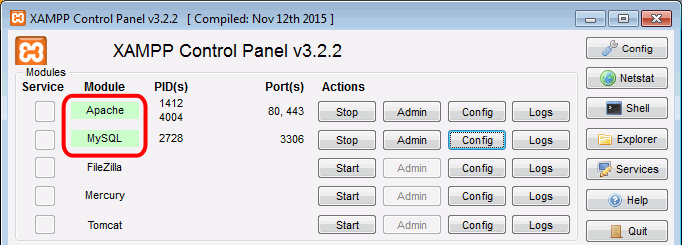
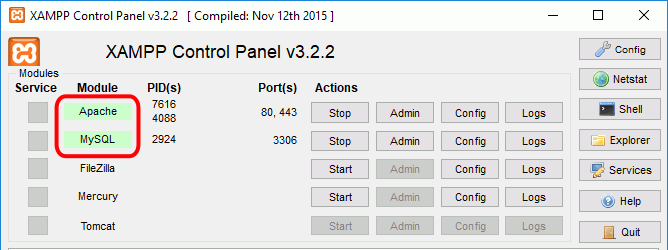
Empiezo a actualizar ejercicios phpMyAdmin

diff --git a/lecciones/phpmyadmin-1.html b/lecciones/phpmyadmin-1.html
@@ -49,6 +49,8 @@
 
   <p>En esta lección se proponen ejercicios para instalar y comprobar el funcionamiento básico de <strong>phpMyAdmin</strong>. Se pueden consultar las <a href="phpmyadmin-1-soluciones.html">soluciones de estos ejercicios de phpMyAdmin</a>, aunque se recomienda intentar realizarlos primero sin recurrir a estas soluciones.</p>
 
+  <p class="incompleto"><img src="../varios/iconos/icono-en-construccion.svg" alt="En construcción" title="En construcción" width="55" height="48" />las capturas de pantalla están pendientes de actualizar a phpMyAdmin 4.7.</p>
+
   <section id="ejercicio-1">
     <h2>phpMyAdmin (1) 1 - phpMyAdmin de XAMPP</h2>
 
@@ -61,7 +63,7 @@
       <li>abrir directamente la dirección <strong>http://localhost/phpmyadmin/</strong>.</li>
     </ul>
 
-    <p>El phpMyAdmin de XAMPP está configurado inicialmente para conectarse directamente a MySQL/MariaDB como usuario <strong>root</strong> sin contraseña. En este ejercicio se supone que no se ha modificado todavía esa configuración inicial.</p>
+    <p>El phpMyAdmin de XAMPP está configurado inicialmente para conectarse directamente a MySQL/MariaDB como usuario <strong>root</strong> sin contraseña, ya que esta es la configuración inicial de MySQL cuando se instala XAMPP. En este ejercicio se supone que no se ha modificado todavía esa configuración inicial.</p>
 
     <ol>
       <li>Abra el phpMyAdmin de XAMPP para comprobar que se conecta a MySQL/MariaDB como usuario <strong>root</strong>.
@@ -81,7 +83,7 @@
         </p>
       </li>
       <li>Para poder conectarse como usuario <strong>root</strong> con contraseña <strong>root</strong>, modifique la variable de configuración correspondiente en el archivo de configuración de phpMyAdmin <strong>config.inc.php</strong> que se encuentra en la carpeta del phpMyAdmin de XAMPP.
-        <p><img src="../varios/iconos/icono-warning.svg" alt="¡Atención!" title="¡Atención!" width="55" height="48" />Antes de modificar cualquier archivo de configuración, haga una copia de seguridad del archivo de configuración. Y al modificar un archivo de configuración, documente siempre los cambios realizados.</p>
+        <p><img src="../varios/iconos/icono-warning.svg" alt="¡Atención!" title="¡Atención!" width="55" height="48" />Antes de modificar cualquier archivo de configuración, haga una copia de seguridad del archivo de configuración anterior. Y al modificar un archivo de configuración, documente siempre en el propio archivo los cambios realizados.</p>
       </li>
       <li>Compruebe que puede conectarse de nuevo a MySQL/MariaDB:
         <p class="captura">
@@ -98,8 +100,7 @@
       <li>Visite la página web del proyecto phpMyAdmin.</li>
       <li>phpMyAdmin se distribuye en forma de archivo comprimido. En la página de descarga se ofrecen varios archivos. La diferencia entre ellos son los idiomas incluidos (la mitad de los archivos incluyen únicamente el idioma inglés y la otra mitad incluyen todos los idiomas disponibles) y el tipo de compresión (zip, 7zip, tar.bz2, tar.gz, tar.xz).
         <p>Para poder hacer en un ejercicio posterior la actualización de phpMyAdmin, descargue la <strong>penúltima</strong> versión disponible, no la última versión. Descargue la versión con todos los idiomas, en el formato de compresión que prefiera.</p>
-        <p><img src="../varios/iconos/icono-warning.svg" alt="¡Atención!" title="¡Atención!" width="55" height="48" />Las versiones phpMyAdmin 4.6.5.X tienen un <i>bug</i> que causa problemas al crear usuarios, por lo que se recomienda utilizar versiones anteriores, por ejemplo la versión phpMyAdmin 4.6.3, publicada el 23 de junio de 2016. La versión phpMyAdmin 4.6.4 se utilizará para un ejercicio de actualización.</p>
-        <p>Si las versiones <strong>phpMyAdmin 4.6.3</strong> y <strong>phpMyAdmin 4.6.4</strong> ya no están disponible en la web del programa, puede descargarlas desde la página de <a href="../otros/descarga-aplicaciones.html">Descarga de aplicaciones</a> de estos apuntes.</p>
+        <p><img src="../varios/iconos/icono-warning.svg" alt="¡Atención!" title="¡Atención!" width="55" height="48" class="izquierda" />Al redactar esta página de ejercicios (diciembre de 2017), la última versión publicada era phpMyAdmin 4.7.6, publicada el 1 de diciembre de 2017, y la penúltima versión era phpMyAdmin 4.7.5, publicada el 23 de octubre de 2017. Probablemente, los ejercicios se puedan realizar con versiones posteriores, pero si quiere utilizar las mismas versiones, descárguelas del repositorio GitHub de phpMyAdmin o de la página de <a href="../otros/descarga-aplicaciones.html">Descarga de aplicaciones</a> de estos apuntes.</p>
       </li>
     </ol>
   </section>
@@ -169,7 +170,7 @@
   </section>
 
   <footer>
-    <p class="ultmod">Última modificación de esta página: 14 de diciembre de 2016</p>
+    <p class="ultmod">Última modificación de esta página: 12 de diciembre de 2017</p>
 
     <p class="licencia"><a rel="license" href="https://creativecommons.org/licenses/by-sa/4.0/deed.es_ES"><img src="../varios/iconos/icono-cc-by-sa.svg" alt="Licencia Creative Commons" title="Licencia Creative Commons BY-SA" width="120" height="42" /></a><br />
       Esta página forma parte del curso <strong><a href="http://www.mclibre.org/consultar/webapps/">Aplicaciones web</a></strong> por <a href="http://www.mclibre.org/" rel="author">Bartolomé Sintes Marco</a><br />

diff --git a/lecciones/phpmyadmin-2.html b/lecciones/phpmyadmin-2.html
@@ -87,7 +87,7 @@
   <section id="ejercicio-2">
     <h2>phpMyAdmin (2) 2 - Instalar una aplicación como usuario iaw_agenda_1</h2>
     <ol>
-      <li>Descargue la aplicación <a href="http://www.mclibre.org/descargar/webapps/1617/agenda_161212.zip">Agenda (12/12/16)</a> (esta aplicación corresponde al ejercicio <a href="http://www.mclibre.org/consultar/php/ejercicios/bases-datos/bases-de-datos-2.html#ejercicio-3">Bases de datos 2-3</a> del curso <a href="http://www.mclibre.org/consultar/php/">Programación web en PHP</a>).</li>
+      <li>Descargue la aplicación <a href="http://www.mclibre.org/descargar/webapps/1718/agenda-171207.zip">Agenda (07/12/17)</a> (esta aplicación corresponde al ejercicio <a href="http://www.mclibre.org/consultar/php/ejercicios/bases-datos/bases-de-datos-2.html#ejercicio-3">Bases de datos 2-3</a> del curso <a href="http://www.mclibre.org/consultar/php/">Programación web en PHP</a>).</li>
       <li>Descomprima la aplicación en la carpeta adecuada y renombre la carpeta como <strong>agenda_1</strong>.</li>
       <li>Modifique el archivo de configuración <strong>config.php</strong> de la aplicación Agenda para que esta utilice la cuenta del usuario <strong>iaw_agenda_1</strong> en MySQL.</li>
       <li>Ejecute la aplicación en el navegador, eligiendo primero la opción "Borrar todo" para crear la tabla en la base de datos, y compruebe que funciona creando varios registros.</li>
@@ -120,7 +120,7 @@
   <section id="ejercicio-4">
     <h2>phpMyAdmin (2) 4 - Instalar dos aplicaciones como usuario iaw_agenda_2</h2>
     <ol>
-      <li>Descargue la aplicación <a href="http://www.mclibre.org/descargar/webapps/1617/agenda_161212.zip">Agenda (12/12/16)</a> (esta aplicación corresponde al ejercicio <a href="http://www.mclibre.org/consultar/php/ejercicios/bases-datos/bases-de-datos-2.html#ejercicio-3">Bases de datos 2-3</a> del curso <a href="http://www.mclibre.org/consultar/php/">Programación web en PHP</a>).</li>
+      <li>Descargue la aplicación <a href="http://www.mclibre.org/descargar/webapps/1718/agenda-171207.zip">Agenda (07/12/17)</a> (esta aplicación corresponde al ejercicio <a href="http://www.mclibre.org/consultar/php/ejercicios/bases-datos/bases-de-datos-2.html#ejercicio-3">Bases de datos 2-3</a> del curso <a href="http://www.mclibre.org/consultar/php/">Programación web en PHP</a>).</li>
       <li>Descomprima la aplicación dos veces en dos carpetas y renombre las carpetas como <strong>agenda_2a</strong> y <strong>agenda_2b</strong>.</li>
       <li>Modifique los archivos de configuración <strong>config.php</strong> de ambas aplicaciones para que estas utilicen la cuenta del usuario <strong>iaw_agenda_2</strong> en MySQL (pero bases de datos distintas).
         <p><strong>Nota</strong>: Hay que tener en cuenta que el nombre de las bases de datos debe comenzar por el nombre del usuario y un guión bajo (en este caso, iaw_agenda_2_agenda_2a y iaw_agenda_2_agenda_2b, por ejemplo)</p>
@@ -151,7 +151,7 @@
   <section id="ejercicio-6">
     <h2>phpMyAdmin (2) 6 - Instalar dos aplicaciones como usuario iaw_agenda_3</h2>
     <ol>
-      <li>Descargue la aplicación <a href="http://www.mclibre.org/descargar/webapps/1617/agenda_161212.zip">Agenda (12/12/16)</a> (esta aplicación corresponde al ejercicio <a href="http://www.mclibre.org/consultar/php/ejercicios/bases-datos/bases-de-datos-2.html#ejercicio-3">Bases de datos 2-3</a> del curso <a href="http://www.mclibre.org/consultar/php/index.html">Programación web en PHP</a>).</li>
+      <li>Descargue la aplicación <a href="http://www.mclibre.org/descargar/webapps/1718/agenda-171207.zip">Agenda (07/12/17)</a> (esta aplicación corresponde al ejercicio <a href="http://www.mclibre.org/consultar/php/ejercicios/bases-datos/bases-de-datos-2.html#ejercicio-3">Bases de datos 2-3</a> del curso <a href="http://www.mclibre.org/consultar/php/index.html">Programación web en PHP</a>).</li>
       <li>Descomprima la aplicación en dos carpetas y renombre las carpetas como <strong>agenda_3a</strong> y <strong>agenda_3b</strong>.</li>
       <li>Modifique los archivos de configuración <strong>config.php</strong> para que las aplicaciones utilicen la cuenta del usuario <strong>iaw_agenda_3</strong> en MySQL y la misma base de datos <strong>iaw_agenda_3</strong>, pero cada una guarde sus registros en tablas distintas.</li>
       <li>Ejecute las aplicaciones en el navegador y compruebe que funcionan creando varios registros.</li>
@@ -178,7 +178,7 @@
   </section>
 
   <footer>
-    <p class="ultmod">Última modificación de esta página: 14 de diciembre de 2016</p>
+    <p class="ultmod">Última modificación de esta página: 12 de diciembre de 2017</p>
 
     <p class="licencia"><a rel="license" href="https://creativecommons.org/licenses/by-sa/4.0/deed.es_ES"><img src="../varios/iconos/icono-cc-by-sa.svg" alt="Licencia Creative Commons" title="Licencia Creative Commons BY-SA" width="120" height="42" /></a><br />
       Esta página forma parte del curso <strong><a href="http://www.mclibre.org/consultar/webapps/">Aplicaciones web</a></strong> por <a href="http://www.mclibre.org/" rel="author">Bartolomé Sintes Marco</a><br />

diff --git a/lecciones/phpmyadmin.html b/lecciones/phpmyadmin.html
@@ -33,10 +33,22 @@
   <section id="organizacion-ejercicios">
     <h2>Organización de los ejercicios</h2>
 
-    <p>Los ejercicios de phpMyAdmin se han dividido en tres páginas:</p>
+    <p>Los ejercicios de phpMyAdmin están divididos en tres páginas:</p>
     <ul>
-      <li><a href="phpmyadmin-1.html">phpMyAdmin (1)</a>: Instalación de phpMyAdmin y configuración básica</li>
-      <li><a href="phpmyadmin-2.html">phpMyAdmin (2)</a>: Creación de usuarios en MySQL e instalación de aplicaciones web.</li>
+      <li><a href="phpmyadmin-1.html">phpMyAdmin (1)</a>: Instalación de phpMyAdmin y configuración básica
+        <p>phpMyAdmin es una de las utilidades incluidas en XAMPP, aunque también se puede descargar, instalar y utilizar como aplicación independiente, al margen del phpMyAdmin de XAMPP.</p>
+
+        <p>En esta lección se proponen ejercicios sobre el uso general de <strong>phpMyAdmin</strong>:</p>
+        <ul>
+          <li>Utilizaremos el phpMyAdmin de XAMPP únicamente en el primer ejercicio (y puntualmente en el ejercicio 7)</li>
+          <li>A partir del segundo ejercicio instalaremos e instalaremos un phpMyAdmin propio.</li>
+        </ul>
+
+        <p>Se deberá prestar atención al phpMyAdmin con el que se está trabajando en cada ejercicio. Aunque ambos phpMyAdmin accedan al mismo servidor MySQL, cada uno es una aplicación distinta con su propia configuración.</p>
+      </li>
+      <li><a href="phpmyadmin-2.html">phpMyAdmin (2)</a>: Creación de usuarios en MySQL e instalación de aplicaciones web.
+        <p>Se aconseja que cada aplicación web que necesite acceder a MySQL utilice un usuario específico. En esta lección se practica la creación de usuarios de MySQL con phpMyAdmin y la instalación de aplicaciones que utilicen esos usuarios para acceder a MySQL.</p>
+      </li>
       <li><a href="phpmyadmin-3.html">phpMyAdmin (3)</a>: Configuración avanzada de phpMyAdmin</li>
     </ul>
   </section>
@@ -44,9 +56,9 @@
   <section id="phpmyadmin">
     <h2>Administración de bases de datos: phpMyAdmin</h2>
 
-    <p><strong>phpMyAdmin</strong> es una herramienta de administración del sistema gestor de bases de datos MySQL. phpMyAdmin es software libre que se distribuye bajo la licencia GPL 2.0.</p>
+    <p><a href="https://www.phpmyadmin.net/">phpMyAdmin</a> es una herramienta de administración del sistema gestor de bases de datos MySQL. </p>
 
-    <p>Durante los casi veinte años de existencia del proyecto phpMyadmin ha publicado una nueva versión prácticamente al año, además de numerosísimas versiones menores.</p>
+    <p>Durante los casi veinte años de existencia del proyecto, phpMyadmin ha publicado más o menos una nueva versión al año, además de muchas versiones menores.</p>
 
     <p class="mcl-centrado">
       <svg version="1.1" xmlns="http://www.w3.org/2000/svg" width="1140" viewBox="-50 -60 1140 100">
@@ -157,19 +169,19 @@
       </svg>
     </p>
 
-    <p>phpMyAdmin es una de las utilidades incluidas en XAMPP, aunque también se puede descargar, instalar y utilizar como aplicación independiente, al margen del phpMyAdmin de XAMPP.</p>
+    <p>phpMyAdmin es software libre que se distribuye bajo la licencia GPL 2.0.</p>
 
-    <p>En esta lección se proponen ejercicios sobre el uso general de <strong>phpMyAdmin</strong>:</p>
+    <p>Desde febrero de 2012, phpMyAdmin se desarrolla en GitHub: <a href="https://github.com/phpmyadmin/phpmyadmin">https://github.com/phpmyadmin/phpmyadmin</a>.</p>
+
+    <p>Referencias:</p>
+
     <ul>
-      <li>El phpMyAdmin de XAMPP se utilizará únicamente en el primer ejercicio (y puntualmente en el ejercicio 7)</li>
-      <li>A partir del segundo ejercicio se instala y utiliza un phpMyAdmin propio.</li>
+      <li><a href="https://planet.phpmyadmin.net/">Planet phpMyAdmin</a>: Recopilación de blogs dedicados a phpMyAdmin en el que los desarrolladores comentan los cambios realizados en la aplicación.</li>
     </ul>
-
-    <p>Se deberá prestar atención al phpMyAdmin con el que se está trabajando en cada ejercicio. Aunque ambos phpMyAdmin accedan al mismo servidor MySQL, cada uno es una aplicación distinta con su propia configuración.</p>
   </section>
 
   <footer>
-    <p class="ultmod">Última modificación de esta página: 5 de mayo de 2017</p>
+    <p class="ultmod">Última modificación de esta página: 12 de diciembre de 2017</p>
 
     <p class="licencia"><a rel="license" href="https://creativecommons.org/licenses/by-sa/4.0/deed.es_ES"><img src="../varios/iconos/icono-cc-by-sa.svg" alt="Licencia Creative Commons" title="Licencia Creative Commons BY-SA" width="120" height="42" /></a><br />
       Esta página forma parte del curso <strong><a href="http://www.mclibre.org/consultar/webapps/">Aplicaciones web</a></strong> por <a href="http://www.mclibre.org/" rel="author">Bartolomé Sintes Marco</a><br />

diff --git a/otros/ejercicios-como.html b/otros/ejercicios-como.html
@@ -104,7 +104,7 @@
 
     <hr class="corta" />
 
-    <p>Para crear los usuarios de la base de datos que utilizará cada aplicación, utilizaremos phpMyAdmin, una aplicación web que permite administrar gráficamente MySQL/MariaDB. Para poder realizar las tareas de administración, phpMyAdmin se conectará a la base de datos utilizando el usuario <strong>root</strong> de la base de datos.</p>
+    <p>Para crear los usuarios de la base de datos que utilizará cada aplicación, utilizaremos phpMyAdmin, una aplicación web que permite administrar gráficamente MySQL/MariaDB. Para realizar esas tareas de administración generales, phpMyAdmin se conectará a la base de datos utilizando el usuario <strong>root</strong> de la base de datos, pero si resulta necesario utilizar phpMyAdmin para realizar las tareas de administración específicas de cada aplicación, entonces utilizaremos los usuarios específicos.</p>
 
     <p class="captura">
       <svg version="1.1" xmlns="http://www.w3.org/2000/svg" width="600" viewBox="250 150 600 180" style="background-color: white; border: black solid 2px" font-family="sans-serif" font-size="18">
@@ -186,7 +186,7 @@
       <li>como usuario <strong>root</strong> de la base de datos, primero crearemos con phpMyAdmin el usuario de la aplicación.
         <p>Este paso lo podríamos hacer tanto con el phpMyAdmin de XAMPP como el phpMyAdmin instalado por nosotros, pero en este curso usaremos preferentemente el nuestro.</p>
       </li>
-      <li>como usuario de la aplicación, instalaremos la aplicación</li>
+      <li>como usuario de la aplicación, instalaremos la aplicación.</li>
       <li>como usuario de la aplicación, utilizaremos en algunos casos phpMyAdmin para algunas tareas (como copias de seguridad, restauraciones, etc.).
         <p>Este paso lo haremos con nuestro phpMyAdmin ya que utilizaremos los usuarios de cada aplicación, aunque también podría utilizarse el phpMyAdmin de XAMPP con usuario <strong>root</strong>.</p>
       </li>
@@ -253,7 +253,7 @@
         <p>Como administradores de la aplicación instalaremos la aplicación y la administraremos mediante la propia aplicación.</p>
       </li>
       <li>los usuarios registrados de cada aplicación, que pueden crear contenido en cada aplicación. Normalmente, existen diferentes tipos de usuarios que pueden realizar más o menos tareas.
-        <p>En estos apuntes, estos usuarios se les da un nombre formado por la categoría a la que pertenecen y un número (<strong>editor_1</strong>, <strong>cliente_1</strong>, etc.). Estos nombres dependen de la aplicación de que se trate pues cada aplicación define unas categoráis distintas.</p>
+        <p>En estos apuntes, estos usuarios se les da un nombre formado por la categoría a la que pertenecen y un número (<strong>editor_1</strong>, <strong>cliente_1</strong>, etc.). Estos nombres dependen de la aplicación de que se trate pues cada aplicación define unas categorías distintas.</p>
         <p>Como usuarios registrados de la aplicación podremos llevar a cabo las tareas que nos permita la categoría de usuario (crear contenido, modificar contenido, etc.).</p>
       </li>
     </ul>
@@ -262,7 +262,7 @@
   </section>
 
   <footer>
-    <p class="ultmod">Última modificación de esta página: 16 de diciembre de 2016</p>
+    <p class="ultmod">Última modificación de esta página: 11 de diciembre de 2017</p>
 
     <p class="licencia"><a rel="license" href="https://creativecommons.org/licenses/by-sa/4.0/deed.es_ES"><img src="../varios/iconos/icono-cc-by-sa.svg" alt="Licencia Creative Commons" title="Licencia Creative Commons BY-SA" width="120" height="42" /></a><br />
       Esta página forma parte del curso <strong><a href="http://www.mclibre.org/consultar/webapps/">Aplicaciones web</a></strong> por <a href="http://www.mclibre.org/" rel="author">Bartolomé Sintes Marco</a><br />

diff --git a/otros/configuracion.html b/otros/configuracion.html
@@ -47,7 +47,7 @@
       <p>Para poder ejecutar las aplicaciones web, se deberá iniciar previamente el servidor Apache y el servidor MySQL desde el panel de control de XAMPP.</p>
 
       <p class="captura">
-        <img src="../img/xampp/xampp-apache-mysql.png" alt="Panel de control de XAMPP" title="Panel de control de XAMPP" width="682" height="245" />
+        <img src="../img/xampp/xampp-apache-mysql.png" alt="Panel de control de XAMPP" title="Panel de control de XAMPP" width="668" height="250" />
       </p>
     </section>
 
@@ -67,7 +67,7 @@
         <li><strong>Mis documentos &gt; IAW Nombre-de-alumno &gt; Aplicaciones &gt; phpmyadmin</strong></li>
       </ul>
 
-      <p>Para poder ejecutar las aplicaciones, se deberá crear un alias en el archivo de configuración de Apache <strong>httpd.conf</strong>. La ruta del alias será <strong>/webapps</strong>, de manera que un único alias sea suficiente para todas las aplicaciones.</p>
+      <p>Para poder ejecutar las aplicaciones, se deberá crear un alias en el archivo de configuración de Apache <strong>httpd.conf</strong>. El alias puede ser simplemente <strong>/webapps</strong> y apuntar a la carpeta Aplicaciones, de manera que un único alias sea suficiente para todas las aplicaciones.</p>
     </section>
 
     <section id="edicion">
@@ -75,7 +75,9 @@
 
       <p>En general, no se editará el código fuente de las aplicaciones web, pero ocasionalmente si que se modificará algún fichero en concreto.</p>
 
-      <p>Para esas modificaciones puntuales, se recomienda utilizar un editor ligero como <a href="https://notepad-plus-plus.org/">Notepad++</a></p>
+      <p>Para esas modificaciones puntuales, se recomienda utilizar un editor ligero como <a href="https://notepad-plus-plus.org/">Notepad++</a>. El inconveniente de utilizar Eclipse PDT es que como Eclipse PDT revisa y comprueba todos los archivos, a medida que vayamos instalando aplicaciones web, ese proceso tardará cada vez más tiempo.</p>
+
+      <hr class="corta" />
 
       <p>Si se quiere utilizar Eclipse PDT, se recomienda crear un workspace específico. Se recomienda:</p>
       <ul>
@@ -88,8 +90,6 @@
       <p>Al descomprimir una nueva aplicación web se deberá actualizar la vista del Explorador PHP de Eclipse.</p>
 
       <p>Para poder ejecutar las aplicaciones desde Eclipse PDT, se deberá crear otro alias en el archivo de configuración de Apache <strong>httpd.conf</strong>. La ruta del alias será <strong>/Nombre-de-alumno/webapps</strong>, de manera que un único alias sea suficiente para todas las aplicaciones.</p>
-
-      <p>El inconveniente de utilizar Eclipse PDT es que como Eclipse PDT revisa y comprueba todos los archivos, a medida que vayamos instalando aplicaciones web, ese proceso tardará cada vez más tiempo.</p>
 
       <p>Al ejecutar la página principal de cada aplicación web desde Eclipse PDT, se abrirá la página web en el navegador. Por ejemplo, en el caso de phpMyAdmin,</p>
       <ul>
@@ -136,7 +136,7 @@
   </section>
 
   <footer>
-    <p class="ultmod">Última modificación de esta página: 18 de diciembre de 2016</p>
+    <p class="ultmod">Última modificación de esta página: 11 de diciembre de 2017</p>
 
     <p class="licencia"><a rel="license" href="https://creativecommons.org/licenses/by-sa/4.0/deed.es_ES"><img src="../varios/iconos/icono-cc-by-sa.svg" alt="Licencia Creative Commons" title="Licencia Creative Commons BY-SA" width="120" height="42" /></a><br />
       Esta página forma parte del curso <strong><a href="http://www.mclibre.org/consultar/webapps/">Aplicaciones web</a></strong> por <a href="http://www.mclibre.org/" rel="author">Bartolomé Sintes Marco</a><br />

diff --git a/lecciones/phpmyadmin-2-soluciones.html b/lecciones/phpmyadmin-2-soluciones.html
@@ -50,7 +50,7 @@
   </nav>
 
   <p>En esta lección se proponen soluciones detalladas de los <a href="phpmyadmin-2.html">ejercicios (2) de phpMyAdmin</a>. Se recomienda intentar realizarlos primero sin recurrir a estas soluciones.</p>
-  <p class="incompleto"><img src="../varios/iconos/icono-en-construccion.svg" alt="En construcción" title="En construcción" width="55" height="48" />Estas soluciones están pendientes de actualizar a los ejercicios propuestos en el curso 2015/16.</p>
+  <p class="incompleto"><img src="../varios/iconos/icono-en-construccion.svg" alt="En construcción" title="En construcción" width="55" height="48" />Estas soluciones están pendientes de actualizar a los ejercicios propuestos en el curso 2017/18.</p>
 
   <section id="ejercicio-1">
     <h2>phpMyAdmin (2) 1 - Crear un usuario iaw_agenda_1 con una base de datos única</h2>
@@ -103,7 +103,7 @@
   <section id="ejercicio-2">
     <h2>phpMyAdmin (2) 2 - Instalar una aplicación como usuario iaw_agenda_1</h2>
     <ul>
-      <li>Descargue la aplicación <a href="http://www.mclibre.org/descargar/webapps/1617/agenda_161212.zip">Agenda (12/12/16)</a> (esta aplicación corresponde al ejercicio <a href="http://www.mclibre.org/consultar/php/ejercicios/bases-datos/bases-de-datos-2.html#ejercicio-3">Bases de datos 2-3</a> del curso <a href="http://www.mclibre.org/consultar/php/index.html">Páginas web con PHP</a>).</li>
+      <li>Descargue la aplicación <a href="http://www.mclibre.org/descargar/webapps/1718/agenda-171207.zip">Agenda (07/12/17)</a> (esta aplicación corresponde al ejercicio <a href="http://www.mclibre.org/consultar/php/ejercicios/bases-datos/bases-de-datos-2.html#ejercicio-3">Bases de datos 2-3</a> del curso <a href="http://www.mclibre.org/consultar/php/index.html">Páginas web con PHP</a>).</li>
       <li>Descomprima el archivo comprimido en la carpeta <strong>aplicaciones</strong> y renombre la carpeta como <strong>agenda_1</strong>.</li>
       <li>Modifique el archivo de configuración <strong>config.php</strong> de manera que la aplicación utilice la cuenta del usuario <strong>iaw_agenda_1</strong>:
 
@@ -196,7 +196,7 @@ define("MYSQL_TABLA",    "tabla");                  // Nombre de la tabla</code>
   <section id="ejercicio-4">
     <h2>phpMyAdmin (2) 4 - Instalar dos aplicaciones como usuario iaw_agenda_2</h2>
     <ul>
-      <li>Descargue la aplicación <a href="http://www.mclibre.org/descargar/webapps/1617/agenda_161212.zip">Agenda (12/12/16)</a> (esta aplicación corresponde al ejercicio <a href="http://www.mclibre.org/consultar/php/ejercicios/bases-datos/bases-de-datos-2.html#ejercicio-3">Bases de datos 2-3</a> del curso <a href="http://www.mclibre.org/consultar/php/index.html">Páginas web con PHP</a>).</li>
+      <li>Descargue la aplicación <a href="http://www.mclibre.org/descargar/webapps/1718/agenda-171207.zip">Agenda (07/12/17)</a> (esta aplicación corresponde al ejercicio <a href="http://www.mclibre.org/consultar/php/ejercicios/bases-datos/bases-de-datos-2.html#ejercicio-3">Bases de datos 2-3</a> del curso <a href="http://www.mclibre.org/consultar/php/index.html">Páginas web con PHP</a>).</li>
       <li>Descomprima dos veces el archivo comprimido en la carpeta <strong>aplicaciones</strong> y renombrar las carpetas como <strong>agenda_2a</strong> y <strong>agenda_2b</strong>.</li>
       <li>Modifique los dos archivos de configuración <strong>config.php</strong> de manera que las dos aplicaciones utilicen la cuenta del usuario <strong>iaw_agenda_2</strong>:
 

diff --git a/lecciones/wordpress.html b/lecciones/wordpress.html
@@ -182,6 +182,8 @@
     <ul>
       <li><a href="https://wwwhatsnew.com/2015/12/16/infografia-sobre-el-uso-de-wordpress-en-espanol/">Infografía sobre el estado de WordPress (diciembre 2015)</a></li>
       <li><a href="http://www.wpbeginner.com/news/the-history-of-wordpress/">Historia de WordPress hasta 2014</a></li>
+      <li>Matt Mullenweg: State of the Word: <a href="https://www.youtube.com/watch?v=XOY3ZUO6P0k">2017</a> - <a href="https://www.youtube.com/watch?v=Nl6U7UotA-M">2016</a> - <a href="https://www.youtube.com/watch?v=PqTwwT0cvA0">2015</a> - <a href="https://www.youtube.com/watch?v=gfbT2dlhiFk">2014</a> - <a href="https://www.youtube.com/watch?v=4OczuAfRZyc">2013</a> - <a href="https://www.youtube.com/watch?v=z02oBvI15H0">2012</a> - <a href="https://www.youtube.com/watch?v=vZjs-pDBizQ">2011</a> - <a href="https://www.youtube.com/watch?v=GNDUD6TYIuQ">2010</a> -<a href="https://www.youtube.com/watch?v=Aw3yylKZT-w">2009</a></li>
+
     </ul>
   </section>
 
@@ -240,7 +242,7 @@
   </section>
 
   <footer>
-    <p class="ultmod">Última modificación de esta página: 17 de noviembre de 2017</p>
+    <p class="ultmod">Última modificación de esta página: 11 de diciembre de 2017</p>
 
     <p class="licencia"><a rel="license" href="https://creativecommons.org/licenses/by-sa/4.0/deed.es_ES"><img src="../varios/iconos/icono-cc-by-sa.svg" alt="Licencia Creative Commons" title="Licencia Creative Commons BY-SA" width="120" height="42" /></a><br />
       Esta página forma parte del curso <strong><a href="http://www.mclibre.org/consultar/webapps/">Aplicaciones web</a></strong> por <a href="http://www.mclibre.org/" rel="author">Bartolomé Sintes Marco</a><br />

diff --git a/lecciones/phpmyadmin-3.html b/lecciones/phpmyadmin-3.html
@@ -44,7 +44,7 @@
 
   <p>En esta lección se proponen ejercicios "avanzados" de administración de <strong>phpMyAdmin</strong>. Se pueden consultar las <a href="phpmyadmin-3-soluciones.html">soluciones de estos ejercicios de phpMyAdmin</a>, aunque se recomienda intentar realizarlos primero sin recurrir a estas soluciones.</p>
 
-  <p class="incompleto"><img src="../varios/iconos/icono-en-construccion.svg" alt="En construcción" title="En construcción" width="55" height="48" />Esta lección está pendiente de actualizar para phpMyAdmin 4.5</p>
+  <p class="incompleto"><img src="../varios/iconos/icono-en-construccion.svg" alt="En construcción" title="En construcción" width="55" height="48" />Esta lección está pendiente de actualizar para phpMyAdmin 4.7.</p>
 
   <section id="ejercicio-1">
     <h2>phpMyAdmin (3) 1 - Completar instalación</h2>
@@ -129,7 +129,7 @@ $cfg['AllowUserDropDatabase'] = true;</code>
   </section>
 
   <footer>
-    <p class="ultmod">Última modificación de esta página: 9 de diciembre de 2015</p>
+    <p class="ultmod">Última modificación de esta página: 12 de diciembre de 2017</p>
 
     <p class="licencia"><a rel="license" href="https://creativecommons.org/licenses/by-sa/4.0/deed.es_ES"><img src="../varios/iconos/icono-cc-by-sa.svg" alt="Licencia Creative Commons" title="Licencia Creative Commons BY-SA" width="120" height="42" /></a><br />
       Esta página forma parte del curso <strong><a href="http://www.mclibre.org/consultar/webapps/">Aplicaciones web</a></strong> por <a href="http://www.mclibre.org/" rel="author">Bartolomé Sintes Marco</a><br />

diff --git a/lecciones/phpmyadmin-3-soluciones.html b/lecciones/phpmyadmin-3-soluciones.html
@@ -47,7 +47,7 @@
 
   <p>En esta lección se proponen soluciones detalladas de los <a href="phpmyadmin-3.html">ejercicios (3) de phpMyAdmin</a>. Se recomienda intentar realizarlos primero sin recurrir a estas soluciones.</p>
 
-  <p class="incompleto"><img src="../varios/iconos/icono-en-construccion.svg" alt="En construcción" title="En construcción" width="55" height="48" />Estas soluciones están pendientes de actualizar a los ejercicios propuestos en el curso 2015/16.</p>
+  <p class="incompleto"><img src="../varios/iconos/icono-en-construccion.svg" alt="En construcción" title="En construcción" width="55" height="48" />Estas soluciones están pendientes de actualizar a los ejercicios propuestos en el curso 2017/18.</p>
 
   <section id="ejercicio-1">
     <h2>phpMyAdmin (3) 1 - Completar instalación</h2>
@@ -157,7 +157,7 @@ $cfg['AllowUserDropDatabase'] = true;</code>
   </section>
 
   <footer>
-    <p class="ultmod">Última modificación de esta página: 9 de diciembre de 2015</p>
+    <p class="ultmod">Última modificación de esta página: 12 de diciembre de 2017</p>
 
     <p class="licencia"><a rel="license" href="https://creativecommons.org/licenses/by-sa/4.0/deed.es_ES"><img src="../varios/iconos/icono-cc-by-sa.svg" alt="Licencia Creative Commons" title="Licencia Creative Commons BY-SA" width="120" height="42" /></a><br />
       Esta página forma parte del curso <strong><a href="http://www.mclibre.org/consultar/webapps/">Aplicaciones web</a></strong> por <a href="http://www.mclibre.org/" rel="author">Bartolomé Sintes Marco</a><br />

diff --git a/otros/historia-cuadros.html b/otros/historia-cuadros.html
@@ -56,11 +56,11 @@
         <th>2017</th>
         <td>Mar: pMA 4.7</td>
         <td>Abr: ownCloud 10</td>
-        <td>May: Nextcloud 12</td>
+        <td>¿Dic?: NextCloud 13<br />May: Nextcloud 12</td>
         <td>Jun: OpenCart 3.0</td>
         <td>Nov: WP 4.9<br /> Jun: WP 4.8</td>
         <td>Oct: Drupal 8.4<br /> Abr: Drupal 8.3</td>
-        <td>¿Nov?: MediaWiki 1.30<br /> Jul: MediaWiki 1.29</td>
+        <td>¿Dic?: MediaWiki 1.30<br /> Jul: MediaWiki 1.29</td>
         <td>Ene: phpBB 3.2</td>
         <th>2017</th>
       </tr>
@@ -344,7 +344,7 @@
   </ul>
 
   <footer>
-    <p class="ultmod">Última modificación de esta página: 29 de octubre de 2017</p>
+    <p class="ultmod">Última modificación de esta página: 11 de diciembre de 2017</p>
 
     <p class="licencia"><a rel="license" href="https://creativecommons.org/licenses/by-sa/4.0/deed.es_ES"><img src="../varios/iconos/icono-cc-by-sa.svg" alt="Licencia Creative Commons" title="Licencia Creative Commons BY-SA" width="120" height="42" /></a><br />
       Esta página forma parte del curso <strong><a href="http://www.mclibre.org/consultar/webapps/">Aplicaciones web</a></strong> por <a href="http://www.mclibre.org/" rel="author">Bartolomé Sintes Marco</a><br />

diff --git a/lecciones/phpmyadmin-1-soluciones.html b/lecciones/phpmyadmin-1-soluciones.html
@@ -50,7 +50,7 @@
     </div>
   </nav>
 
-  <p class="incompleto"><img src="../varios/iconos/icono-en-construccion.svg" alt="En construcción" title="En construcción" width="55" height="48" />Estas soluciones están pendientes de actualizar a los ejercicios propuestos en el curso 2016/17.</p>
+  <p class="incompleto"><img src="../varios/iconos/icono-en-construccion.svg" alt="En construcción" title="En construcción" width="55" height="48" />Estas soluciones están pendientes de actualizar a los ejercicios propuestos en el curso 2017/18.</p>
 
   <p>En esta lección se proponen soluciones detalladas de los <a href="phpmyadmin-1.html">ejercicios (1) de phpMyAdmin</a>. Se recomienda intentar realizarlos primero sin recurrir a estas soluciones.</p>
 

diff --git a/index.html b/index.html
@@ -205,7 +205,7 @@
   </div>
 
   <footer>
-    <p class="ultmod">Última modificación de alguna página de este curso: 11 de diciembre de 2017</p>
+    <p class="ultmod">Última modificación de alguna página de este curso: 12 de diciembre de 2017</p>
 
     <p class="licencia"><a rel="license" href="https://creativecommons.org/licenses/by-sa/4.0/deed.es_ES"><img src="varios/iconos/icono-cc-by-sa.svg" alt="Licencia Creative Commons" title="Licencia Creative Commons BY-SA" width="120" height="42" /></a><br />
       Esta página forma parte del curso <strong><a href="http://www.mclibre.org/consultar/webapps/">Aplicaciones web</a></strong> por <a href="http://www.mclibre.org/" rel="author">Bartolomé Sintes Marco</a><br />
